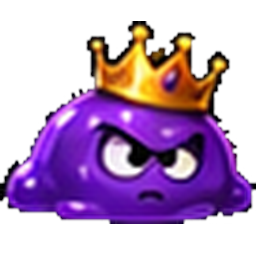
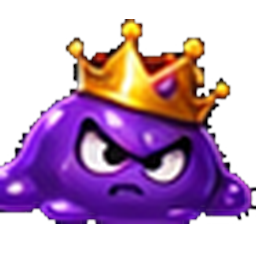
Use the monster pack's own sprites and health bar
The pack ships a dedicated 5x5 gameplay sprite for each monster; the
goblin and slimelet were standing on crops taken from their animation
strips instead. Their tokens now use the sprites the pack drew for the
board, and a monster's health bar uses the pack's bar art when the
catalog has it, falling back to the flat bar.

diff --git a/ClickDungeon/Assets/ClickDungeon/Scripts/Unity/Ui/ArtCatalog.cs b/ClickDungeon/Assets/ClickDungeon/Scripts/Unity/Ui/ArtCatalog.cs
@@ -153,6 +153,9 @@ namespace ClickDungeon.Unity.Ui
         public const string HighlightHover = "ui_highlight_hover";
         public const string PortraitFrame = "ui_frame_portrait";
         public const string HpBack = "ui_hp_back";
+        /// <summary>The bar over a monster's token (the monster pack's enemy_health_bar).</summary>
+        public const string EnemyHpBack = "ui_enemy_hp_back";
+        public const string EnemyHpFill = "ui_enemy_hp_fill";
         public const string HpFill = "ui_hp_fill";
         public const string HpFrame = "ui_hp_frame";
         public const string Heart = "ui_icon_heart";
@@ -351,7 +354,7 @@ namespace ClickDungeon.Unity.Ui
             keys.AddRange(new[]
             {
                 HighlightLegal, HighlightTarget, HighlightHover,
-                PortraitFrame, HpBack, HpFill, HpFrame, Heart, Chip, FloorPlaque, Panel, SpeechStrip,
+                PortraitFrame, HpBack, HpFill, HpFrame, EnemyHpBack, EnemyHpFill, Heart, Chip, FloorPlaque, Panel, SpeechStrip,
                 AbilityButtonDefault, AbilitySelected, CountBadge, SettingsButton, HelpButton,
             });
             foreach (var kind in AbilityKinds) keys.Add(AbilityButton(kind));

diff --git a/ClickDungeon/Assets/ClickDungeon/Scripts/Unity/Screens/BoardView.cs b/ClickDungeon/Assets/ClickDungeon/Scripts/Unity/Screens/BoardView.cs
@@ -497,8 +497,11 @@ namespace ClickDungeon.Unity.Screens
             badgeIcon.gameObject.SetActive(false);
 
             var hpBack = UiFactory.Image(rt, "HpBack", Palette.HpBack, null);
-            hpBack.rectTransform.Place(Center, Center, new Vector2(0f, -CellSize * 0.5f + 12f), new Vector2(84f, 10f));
+            // The monster pack's health bar when it is in the catalog, the flat bar otherwise.
+            bool barArt = UiArt.Apply(hpBack, ArtKeys.EnemyHpBack);
+            hpBack.rectTransform.Place(Center, Center, new Vector2(0f, -CellSize * 0.5f + 12f), new Vector2(84f, barArt ? 16f : 10f));
             var hpFill = UiFactory.Image(hpBack.rectTransform, "HpFill", Palette.Hp, null);
+            if (barArt) UiArt.Apply(hpFill, ArtKeys.EnemyHpFill);
             hpFill.rectTransform.anchorMin = Vector2.zero;
             hpFill.rectTransform.anchorMax = Vector2.one;
             hpFill.rectTransform.offsetMin = Vector2.zero;
